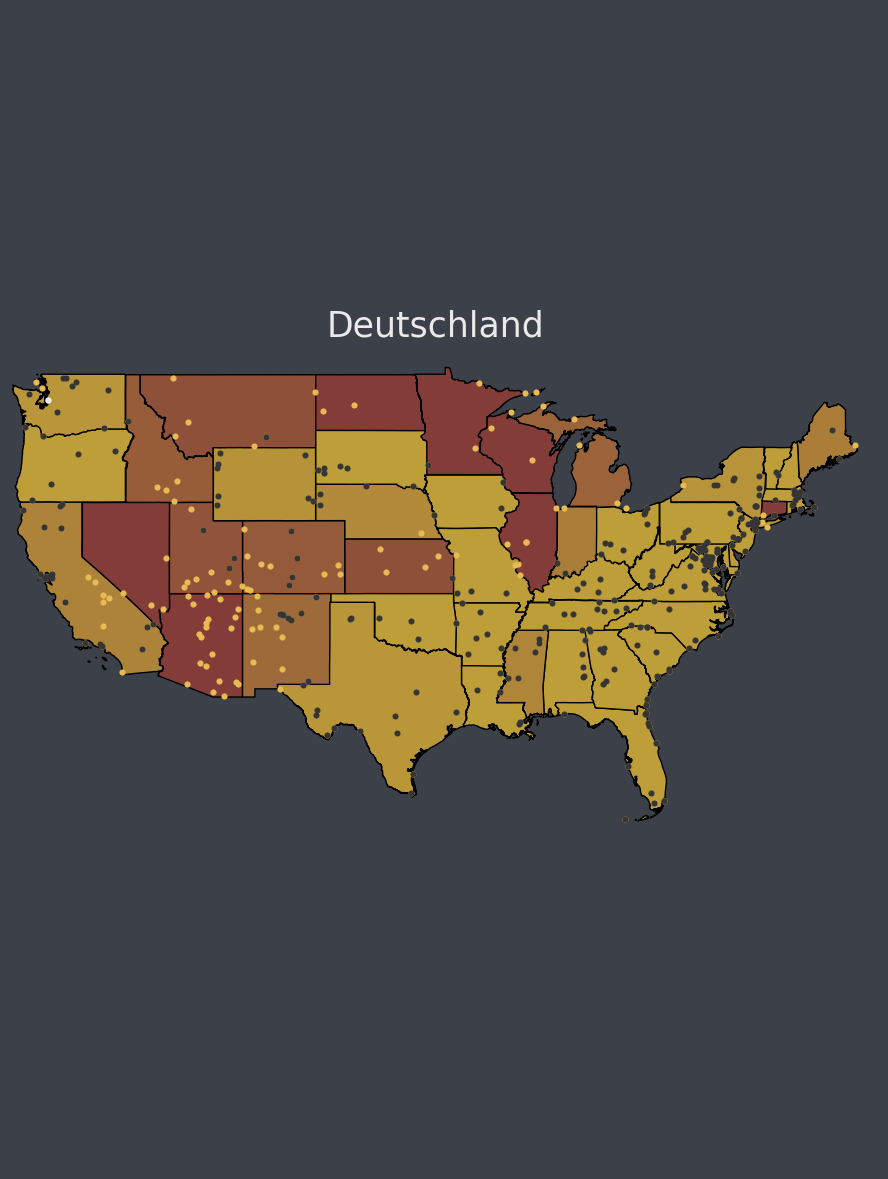
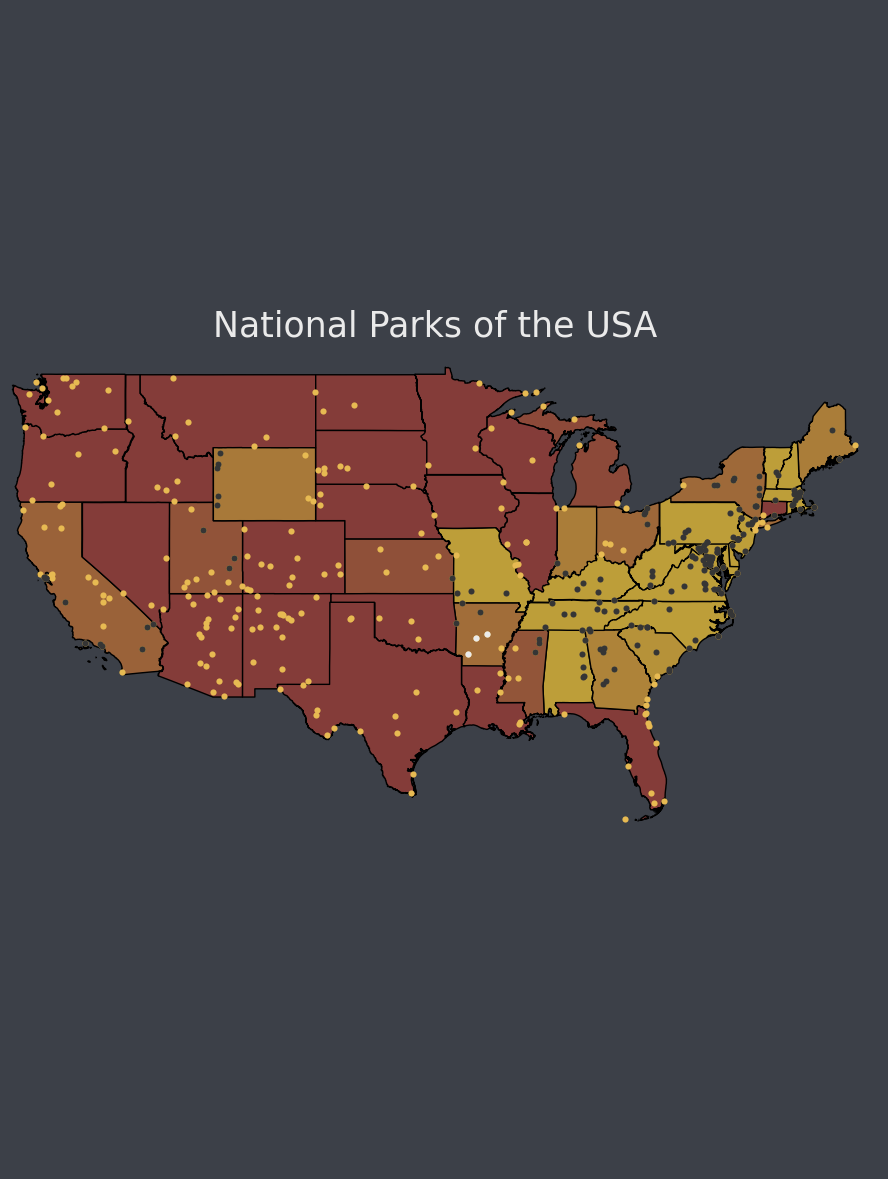
add the fig size to meta data

diff --git a/main.py b/main.py
@@ -16,10 +16,10 @@ from colormap import custom_cmap
 SCALE = 5
 
 # US National Park Global Variables
-#PATH = "us"
+PATH = "us"
 
 # Germany Global Variables
-PATH = "de"
+#PATH = "de"
 
 # Europe Global Variables
 #PATH = "eu"
@@ -30,6 +30,7 @@ with open(PATH + '/meta_data.json', 'r') as f:
 
 # Access Meta-Data variables
 title = meta_data["Title"]
+fig_size = meta_data["Figure Size"]
 crop_s = meta_data["Cropping"]["small"]
 crop_l = meta_data["Cropping"]["large"]
 color_unvisited = meta_data["Colors"]["unvisited"]
@@ -68,7 +69,7 @@ for index, row in points_gdf.iterrows():
             if row['date']:
                 print(str(row['date']) + " - " + row['name'])
             # Initialize Plot
-            fig, ax = plt.subplots(figsize=(12*SCALE, 18*SCALE))
+            fig, ax = plt.subplots(figsize=(fig_size[0]*SCALE, fig_size[1]*SCALE))
             fig.patch.set_facecolor('#3C4048')
 
             # Plot each Submap
